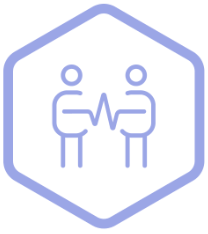
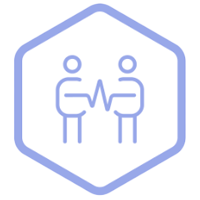
Update README layout and image asset
Improved README formatting by adjusting logo alignment and image sizes. Updated the image.png asset in docs/source/_static for refreshed visuals.

diff --git a/README.md b/README.md
@@ -1,13 +1,14 @@
-<div style="display: flex; justify-content: space-between; align-items: center;">
-  <a href="https://www.harmonize-tools.org/">
-    <img height="90" src="https://harmonize-tools.github.io/harmonize-logo.png" />
-  </a>
-  <a href="https://harmonize-tools.github.io/socio4health/">
-    <img height="90" src="https://raw.githubusercontent.com/harmonize-tools/socio4health/main/docs/source/_static/image.png" />
-  </a>
-</div>
+#
 
-# socio4health 
+<a href="https://www.harmonize-tools.org/">
+    <img height="120" align="right" src="https://harmonize-tools.github.io/harmonize-logo.png" />
+</a>
+
+<a href="https://harmonize-tools.github.io/socio4health/">
+    <img height="120" src="https://raw.githubusercontent.com/harmonize-tools/socio4health/main/docs/source/_static/image.png" />
+</a>
+
+# socio4health
                                                              
 <!-- badges: start -->
 
